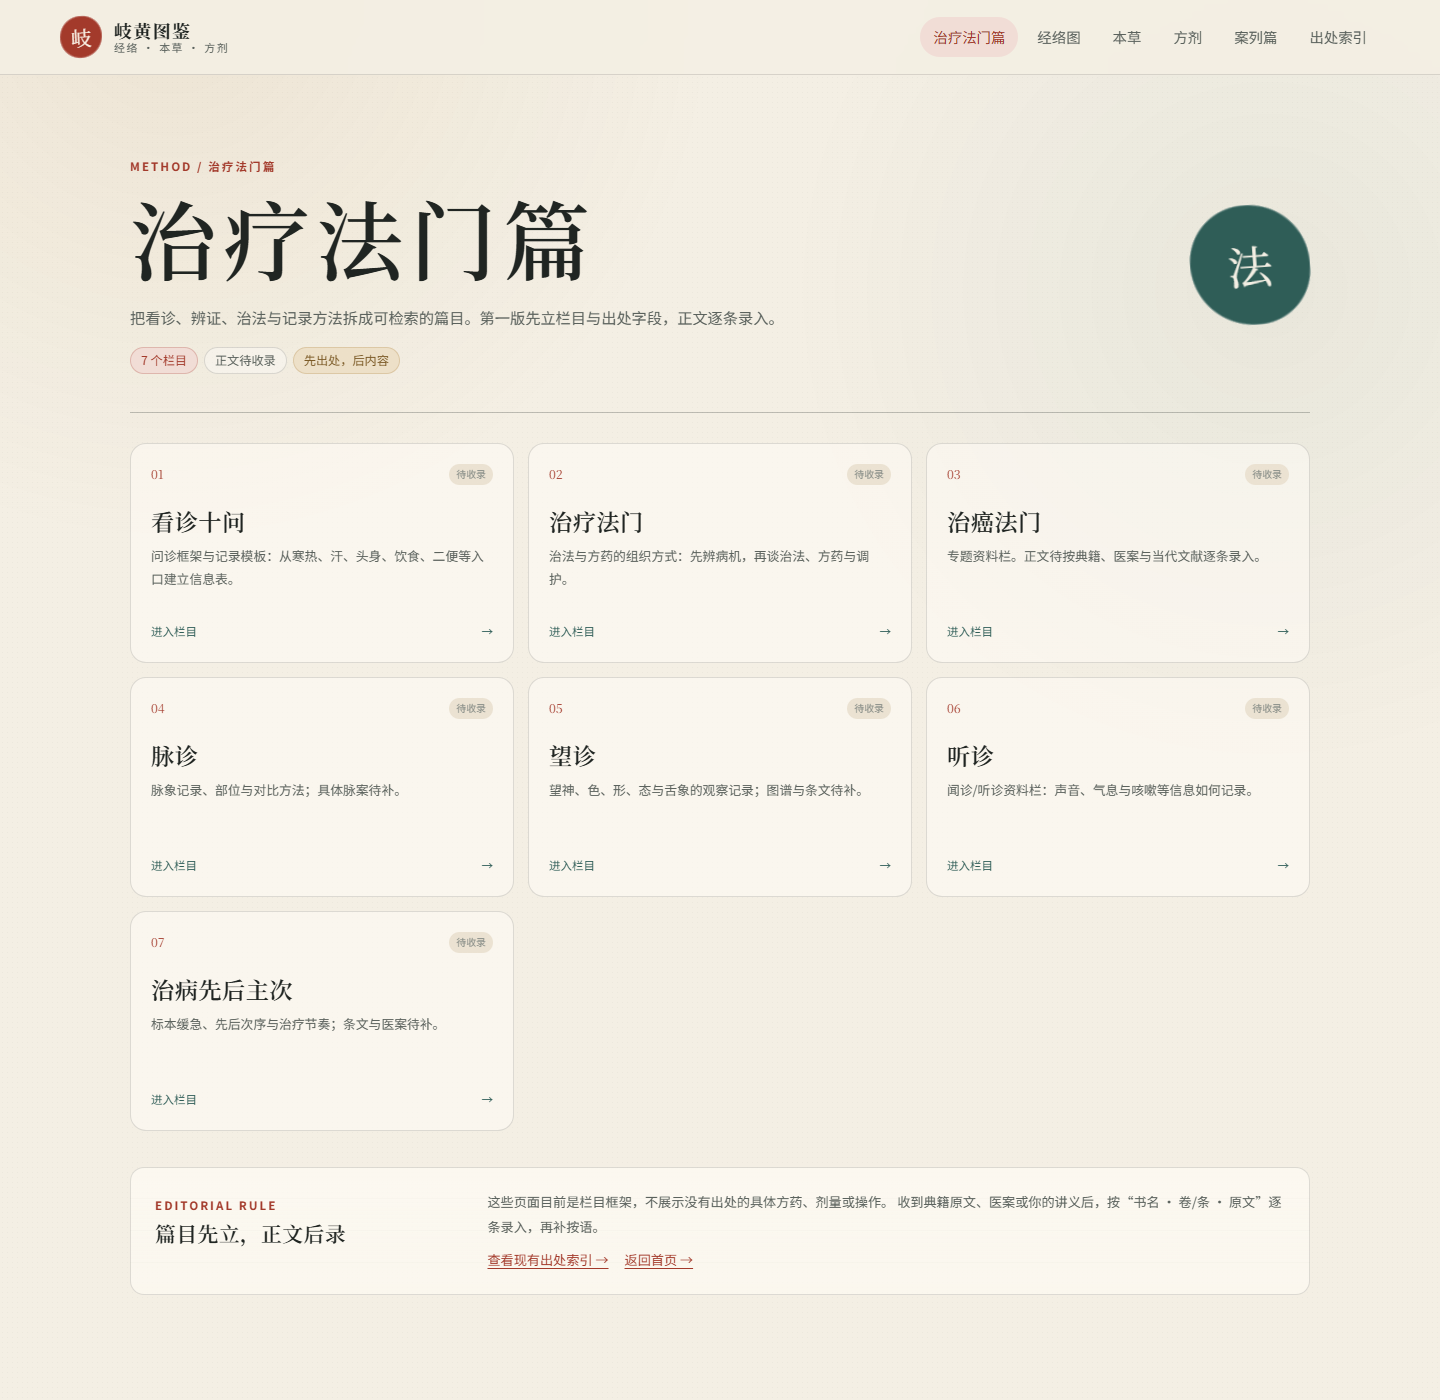
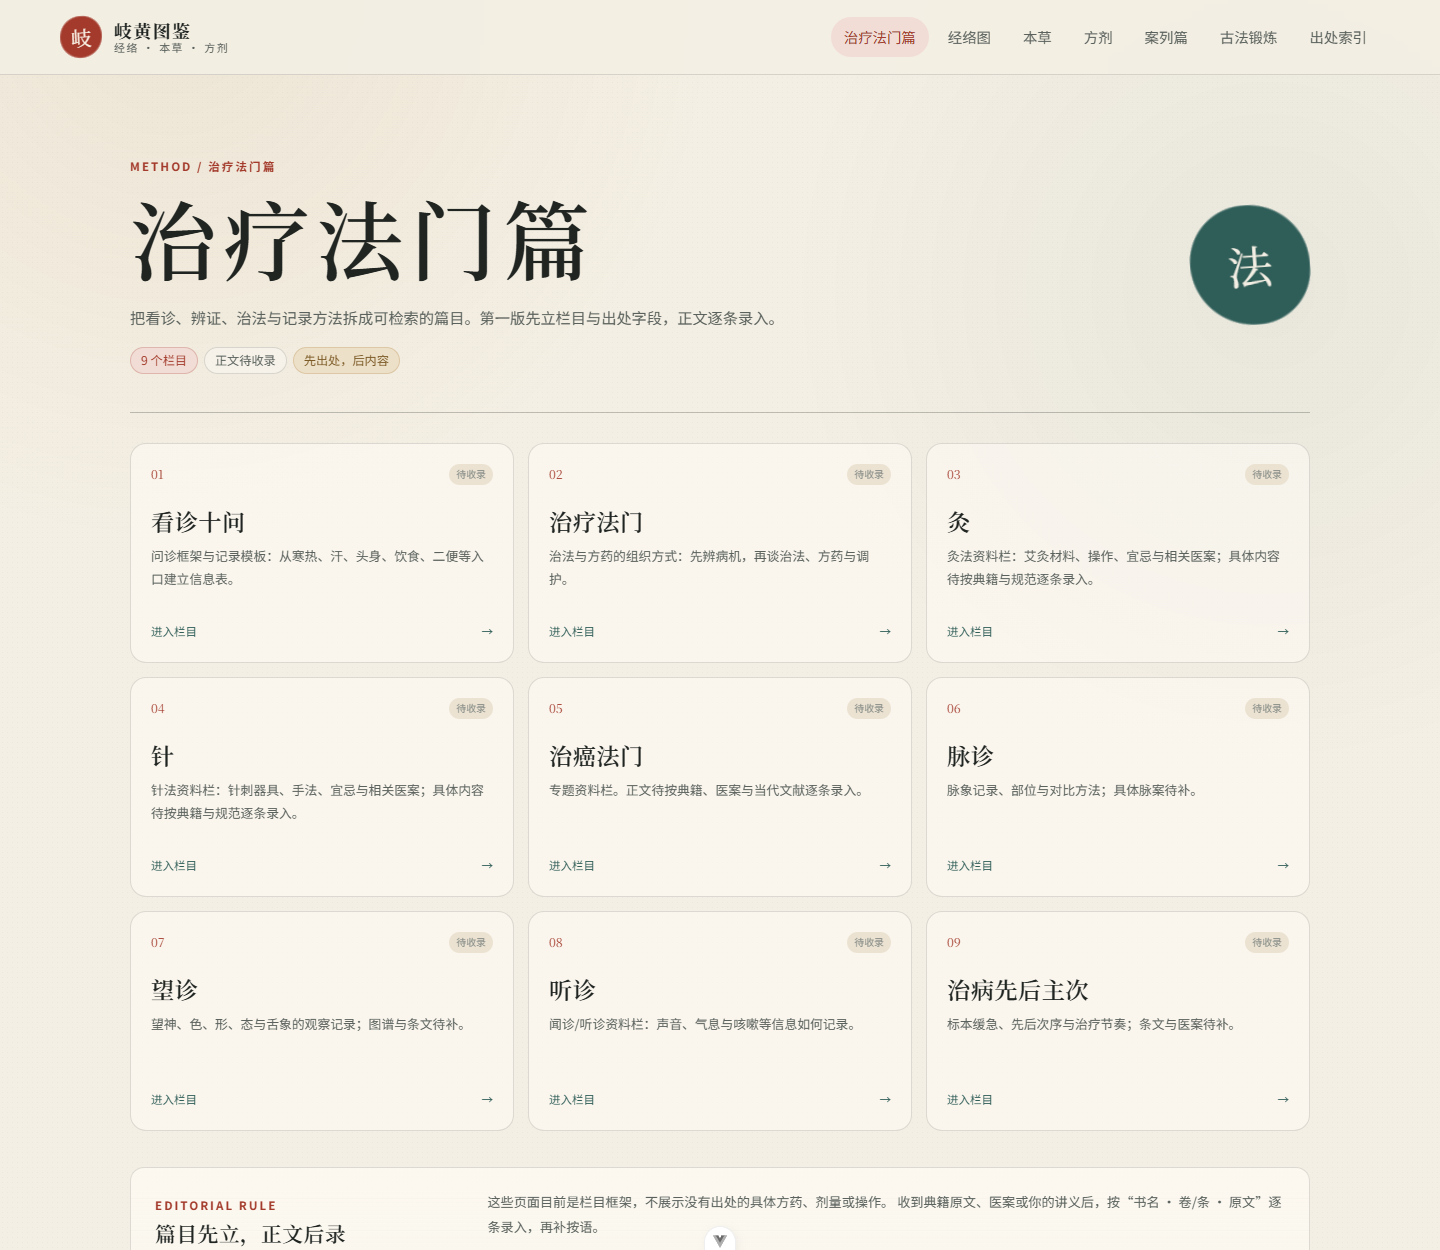
Add moxibustion and acupuncture sections to methods

diff --git a/src/data/topics.ts b/src/data/topics.ts
@@ -19,6 +19,16 @@ export const methodTopics: Topic[] = [
     subtitle: '治法与方药的组织方式：先辨病机，再谈治法、方药与调护。',
   },
   {
+    id: 'moxibustion',
+    title: '灸',
+    subtitle: '灸法资料栏：艾灸材料、操作、宜忌与相关医案；具体内容待按典籍与规范逐条录入。',
+  },
+  {
+    id: 'acupuncture',
+    title: '针',
+    subtitle: '针法资料栏：针刺器具、手法、宜忌与相关医案；具体内容待按典籍与规范逐条录入。',
+  },
+  {
     id: 'cancer-methods',
     title: '治癌法门',
     subtitle: '专题资料栏。正文待按典籍、医案与当代文献逐条录入。',
